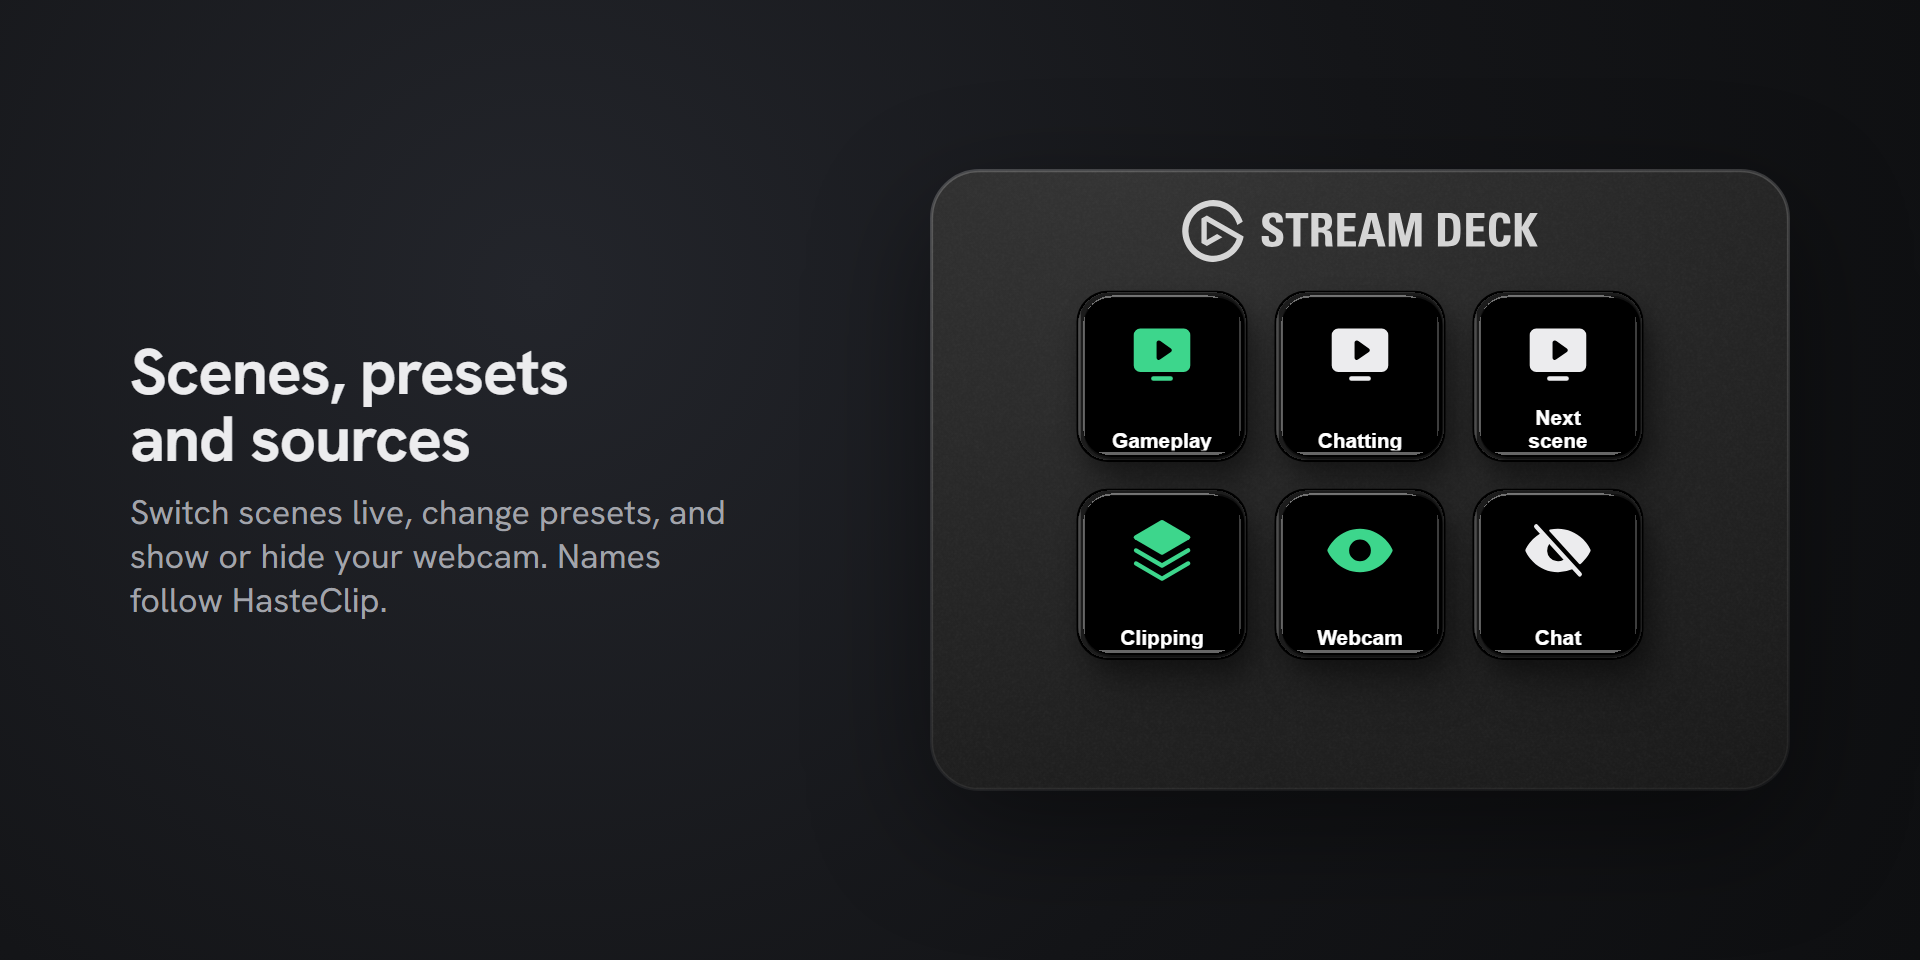
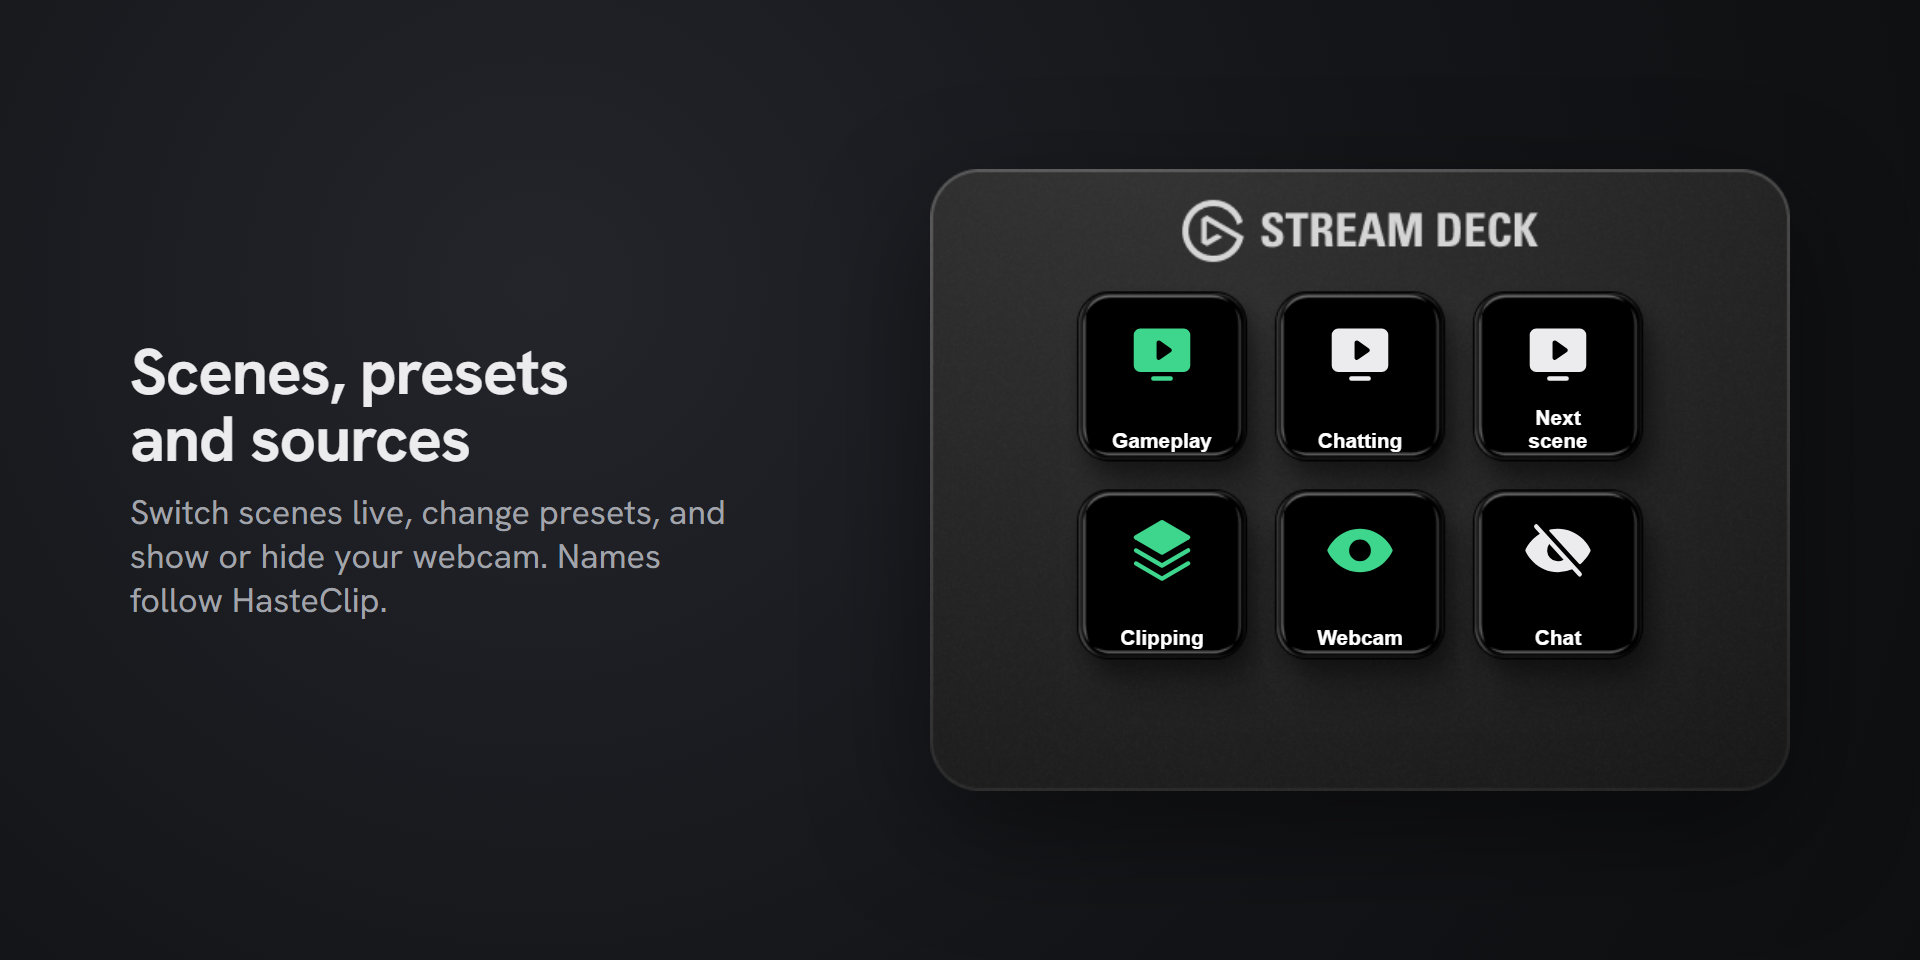
docs(listing): the devices as Figma draws them, with the keys blended on
Chrome draws the effects in Figma's SVG export differently from Figma: the keys' glass rim was lost, the MK.2's ridge came out as a grey disc, and the Stream Deck +'s knobs sat flat in a black well (the untouched SVG too). The pictures now use Figma's own PNG render of each device, and its SVG only for where the keys and the touch strip are. The plugin's key pictures and titles, and the dials' layouts, are blended onto Figma's black keys and strip with screen: their black changes nothing, so the bevel, reflections, ridge and knobs stay exactly as Figma drew them.

Drawn from 1x renders for now; 4x renders make the MK.2 and the Mini sharper (they're shown larger than 1x).

diff --git a/scripts/make-listing.py b/scripts/make-listing.py
@@ -5,20 +5,25 @@ Elgato's product guidelines ask).
     python scripts/make-listing.py <chrome.exe> <HasteClip's crates/app/assets> <devices folder>
 
 <devices folder> holds Elgato's own pictures of the hardware, from its
-official "Stream Deck Templates" Figma file, each device exported as SVG
-with its layers' names as ids: "Stream Deck MK.2.svg", "Stream Deck
-Mini.svg" and "Stream Deck +.svg". They're Elgato's, so they're not in this
-repository. The Marketplace asks for its hardware to be shown with them.
+official "Stream Deck Templates" Figma file, for the Stream Deck MK.2, Mini
+and +, each twice:
+
+- Figma's render of it, exported as PNG (4x is best; .png or .webp), as the
+  device: its glass, its ridge and its knobs exactly as Figma draws them,
+  which Figma's SVG export can't carry (browsers draw its effects
+  differently).
+- The same frame exported as SVG with its layers' names as ids, only for
+  where its keys and its touch strip are.
+
+They're Elgato's, so they're not in this repository. The Marketplace asks
+for its hardware to be shown with them.
 
 Each key shows what it shows on the deck: the plugin's own key pictures
-(imgs/), put into the key's "Content" layer, under Elgato's bevel and
-reflections, with the title Stream Deck draws. The Stream Deck +'s touch
-strip shows the dials' layouts as the plugin fills them. Two things in the
-exports are changed so Chrome draws them as Figma does: the bevel's
-background blur (an HTML element in the SVG, which would blur the whole
-key) is left out, and the reflections' shapes are made solid. They were 1%
-opaque, which made their inner glints cover the whole key; they're blended
-with "screen", where black changes nothing.
+(imgs/) and the title Stream Deck draws, blended onto Figma's black keys
+with "screen": the picture's black changes nothing (the keys' bevel and
+reflections stay as Figma drew them), and its icon and title show through,
+under the glass's glints. The Stream Deck +'s touch strip shows the dials'
+layouts as the plugin fills them, the same way.
 
 The pictures are pages drawn by Chrome, headless (with a profile of its own,
 so it never touches yours), in HasteClip's font, Hanken Grotesk.
@@ -71,59 +76,46 @@ def number(content: ET.Element) -> int:
     return int(m.group(1) or 1) if m else 0
 
 
-def device(path: Path, keys: list[tuple[str, str]], width: int, strip: list[dict] | None = None) -> str:
-    """Elgato's device, `width` px wide, its keys showing `keys` (picture,
-    title) in order, and its touch strip (Stream Deck +) showing `strip`."""
-    root = ET.parse(path).getroot()
-    parents = {child: parent for parent in root.iter() for child in parent}
-    for el in list(root.iter(NS + "foreignObject")):
-        parents[el].remove(el)
-    for g in root.iter(NS + "g"):
-        if "mix-blend-mode:screen" in (g.get("style") or ""):
-            for shape in g.iter():
-                if shape.get("fill-opacity") == "0.01":
-                    shape.set("fill-opacity", "1")
-    # The MK.2's middle key has a ridge: in Elgato's photos a faint, clear
-    # oval you read the title through. Chrome draws the template's as a grey
-    # disc: faint, as on the deck.
-    for g in root.iter(NS + "g"):
-        if g.get("id") == "Ridge":
-            g.set("opacity", "0.3")
-    # Each filter's area, wider: Chrome cuts a filter's steps off at its
-    # area, and the reflections' inner glints (a shape grown, then moved)
-    # were cut into wide bands down the keys' sides.
-    for f in root.iter(NS + "filter"):
-        if f.get("filterUnits") == "userSpaceOnUse":
-            for k, d in (("x", -48), ("y", -48), ("width", 96), ("height", 96)):
-                f.set(k, f"{float(f.get(k)) + d:g}")
+def render_of(devices: Path, name: str) -> Path:
+    """Figma's render of device `name`."""
+    for suffix in (".png", ".webp"):
+        path = devices / f"{name}{suffix}"
+        if path.exists():
+            return path
+    sys.exit(f"no {name}.png (Figma's render of it) in {devices}")
+
+
+def device(devices: Path, name: str, keys: list[tuple[str, str]], width: int, strip: list[dict] | None = None) -> str:
+    """Elgato's device `name`, `width` px wide, its keys showing `keys`
+    (picture, title) in order, and its touch strip (Stream Deck +) `strip`."""
+    root = ET.parse(devices / f"{name}.svg").getroot()
+    vw, vh = (float(v) for v in root.get("viewBox").split()[2:])
     contents = sorted((g for g in root.iter(NS + "g") if number(g)), key=number)
     if len(keys) != len(contents):
-        sys.exit(f"{path.name} has {len(contents)} keys, not {len(keys)}")
+        sys.exit(f"{name} has {len(contents)} keys, not {len(keys)}")
+    overlay = ET.Element(NS + "svg", {"viewBox": f"0 0 {vw:g} {vh:g}", "class": "keys"})
     for content, (picture, title) in zip(contents, keys):
         shape = content.find(NS + "rect")
         x, y = re.search(r"translate\(([\d.]+) ([\d.]+)\)", shape.get("transform")).groups()
         size = shape.get("width")
-        content.remove(shape)
-        nested = ET.SubElement(content, NS + "svg", {"x": x, "y": y, "width": size, "height": size, "viewBox": "0 0 144 144"})
+        nested = ET.SubElement(overlay, NS + "svg", {"x": x, "y": y, "width": size, "height": size, "viewBox": "0 0 144 144"})
         nested.extend(key_picture(picture, title))
     if strip:
-        touch_strip(root, strip)
-    vw, vh = (float(v) for v in root.get("viewBox").split()[2:])
-    root.set("width", str(width))
-    root.set("height", str(round(width * vh / vw)))
-    return ET.tostring(root, encoding="unicode")
+        glass = next(el for el in root.iter(NS + "image") if el.get("width") == "896")
+        touch_strip(overlay, [float(glass.get(k)) for k in ("x", "y", "width", "height")], strip)
+    render = render_of(devices, name)
+    height = round(width * vh / vw)
+    return f'<div class="device" style="width:{width}px;height:{height}px"><img src="{render.as_uri()}">{ET.tostring(overlay, encoding="unicode")}</div>'
 
 
-def touch_strip(root: ET.Element, panels: list[dict]) -> None:
+def touch_strip(overlay: ET.Element, glass: list[float], panels: list[dict]) -> None:
     """The Stream Deck +'s touch strip: 800 x 100 pixels across its glass,
     a 200 x 100 layout over each dial ($A1 or $B1, as the plugin uses)."""
-    glass = next(el for el in root.iter(NS + "image") if el.get("width") == "896")
-    gx, gy, gw, gh = (float(glass.get(k)) for k in ("x", "y", "width", "height"))
+    gx, gy, gw, gh = glass
     scale = (gw - 32) / 800
     left, top = gx + 16, gy + (gh - 100 * scale) / 2
-    group = ET.Element(NS + "g")
     for i, panel in enumerate(panels):
-        g = ET.SubElement(group, NS + "g", {"transform": f"translate({left + i * 200 * scale:g} {top:g}) scale({scale:g})"})
+        g = ET.SubElement(overlay, NS + "g", {"transform": f"translate({left + i * 200 * scale:g} {top:g}) scale({scale:g})"})
         title = ET.SubElement(g, NS + "text", {"x": "16", "y": "28", "font-family": "Arial, Helvetica, sans-serif", "font-size": "15", "font-weight": "700", "fill": "#fff"})
         title.text = panel["title"]
         icon = ET.SubElement(g, NS + "svg", {"x": "16", "y": "40", "width": "48", "height": "48", "viewBox": "0 0 96 96"})
@@ -133,8 +125,6 @@ def touch_strip(root: ET.Element, panels: list[dict]) -> None:
         if "bar" in panel:
             ET.SubElement(g, NS + "rect", {"x": "76", "y": "74", "width": "108", "height": "12", "rx": "2", "fill": "#2b2c30"})
             ET.SubElement(g, NS + "rect", {"x": "76", "y": "74", "width": f"{108 * panel['bar']:g}", "height": "12", "rx": "2", "fill": panel.get("bar_colour", "#3DD68C")})
-    parent = next(p for p in root.iter() if glass in list(p))
-    parent.insert(list(parent).index(glass) + 1, group)
 
 
 def page(body: str, assets: Path) -> str:
@@ -150,17 +140,18 @@ p {{ font-size: 34px; color: #A2A4AB; margin: 0; line-height: 1.3; max-width: 60
 .brand {{ display: flex; flex-direction: column; gap: 26px; }}
 .brand img {{ width: 190px; height: 190px; }}
 .words {{ display: flex; flex-direction: column; width: 680px; }}
-svg {{ display: block; filter: drop-shadow(0 40px 60px rgba(0,0,0,.45)); }}
+.device {{ position: relative; flex: none; filter: drop-shadow(0 40px 60px rgba(0,0,0,.45)); }}
+.device > img {{ display: block; width: 100%; height: 100%; }}
+.device > svg.keys {{ position: absolute; inset: 0; width: 100%; height: 100%; mix-blend-mode: screen; }}
 </style></head><body>{body}</body></html>"""
 
 
 def pictures(assets: Path, devices: Path) -> dict[str, str]:
     logo = (assets / "icon-1024.png").as_uri()
-    mk2, mini, plus = devices / "Stream Deck MK.2.svg", devices / "Stream Deck Mini.svg", devices / "Stream Deck +.svg"
     thumbnail = f"""
 <div class="brand"><img src="{logo}"><h1>HasteClip<br>for Stream Deck</h1>
 <p>Save clips, switch scenes and mute your mic without leaving the game.</p></div>
-{device(mk2, [
+{device(devices, "Stream Deck MK.2", [
     ("save-clip/key.svg", ""), ("clipping/on.svg", ""), ("recording/off.svg", ""), ("stream/off.svg", ""), ("screenshot/key.svg", ""),
     # The middle key has the MK.2's ridge: one without a title.
     ("scene/on.svg", "Gameplay"), ("scene/off.svg", "Chatting"), ("mark/key.svg", ""), ("source/on.svg", "Webcam"), ("preset/on.svg", "Clipping"),
@@ -169,21 +160,21 @@ def pictures(assets: Path, devices: Path) -> dict[str, str]:
     capture = f"""
 <div class="words"><h2>Clip, record and go live</h2>
 <p>The keys light up while HasteClip clips, records or streams, with how long it's been going.</p></div>
-{device(mini, [
+{device(devices, "Stream Deck Mini", [
     ("save-clip/key.svg", ""), ("clipping/on.svg", ""), ("recording/on.svg", "12:03"),
     ("stream/on.svg", "1:02:03"), ("screenshot/key.svg", ""), ("mark/key.svg", ""),
 ], 860)}"""
     scenes = f"""
 <div class="words"><h2>Scenes, presets and sources</h2>
 <p>Switch scenes live, change presets, and show or hide your webcam. Names follow HasteClip.</p></div>
-{device(mini, [
+{device(devices, "Stream Deck Mini", [
     ("scene/on.svg", "Gameplay"), ("scene/off.svg", "Chatting"), ("scene/off.svg", "Next\nscene"),
     ("preset/on.svg", "Clipping"), ("source/on.svg", "Webcam"), ("source/off.svg", "Chat"),
 ], 860)}"""
     sound = f"""
 <div class="words"><h2>Mute, talk, turn it up</h2>
 <p>Mute any sound or hold a key to talk. On Stream Deck +, turn a dial for its volume or to pick a scene.</p></div>
-{device(plus, [
+{device(devices, "Stream Deck +", [
     ("sound/live.svg", "Mic"), ("sound/speaker.svg", "Desktop"), ("sound/speaker.svg", "Game"), ("sound/speaker-muted.svg", "Music"),
     ("clipping/on.svg", ""), ("save-clip/key.svg", ""), ("recording/on.svg", "12:03"), ("scene/on.svg", "Gameplay"),
 ], 820, strip=[

diff --git a/marketplace/listing.md b/marketplace/listing.md
@@ -87,13 +87,23 @@ In this folder, made by `scripts/make-listing.py`:
 
 The hardware is Elgato's own, from its official
 [Stream Deck Templates](https://www.figma.com/community/file/1315040482142393672/stream-deck-templates)
-Figma file. Each device is exported as SVG with "Include id attribute", and
-kept outside this repository because they're Elgato's files. The keys show
-the plugin's real key pictures and titles, under Elgato's bevel and
-reflections. To draw the pictures again:
+Figma file. Each device is exported from Figma twice, with its keys black as
+in the template:
+
+- As PNG (4x is best; save the file, since a pasted copy comes through at
+  1x). This is the device in the pictures, exactly as Figma draws it. Figma's
+  SVG export can't carry its glass, ridge and knobs: browsers draw those
+  effects differently.
+- As SVG with "Include id attribute", only for where its keys and its touch
+  strip are.
+
+They're kept outside this repository because they're Elgato's files. The
+plugin's real key pictures and titles are blended onto Figma's black keys
+with "screen", so Elgato's glass stays as Figma drew it. To draw the
+pictures again:
 
 ```sh
-python scripts/make-listing.py <chrome.exe> <HasteClip's crates/app/assets> <folder with the device SVGs>
+python scripts/make-listing.py <chrome.exe> <HasteClip's crates/app/assets> <folder with the device PNGs and SVGs>
 ```
 
 ## Demo video
